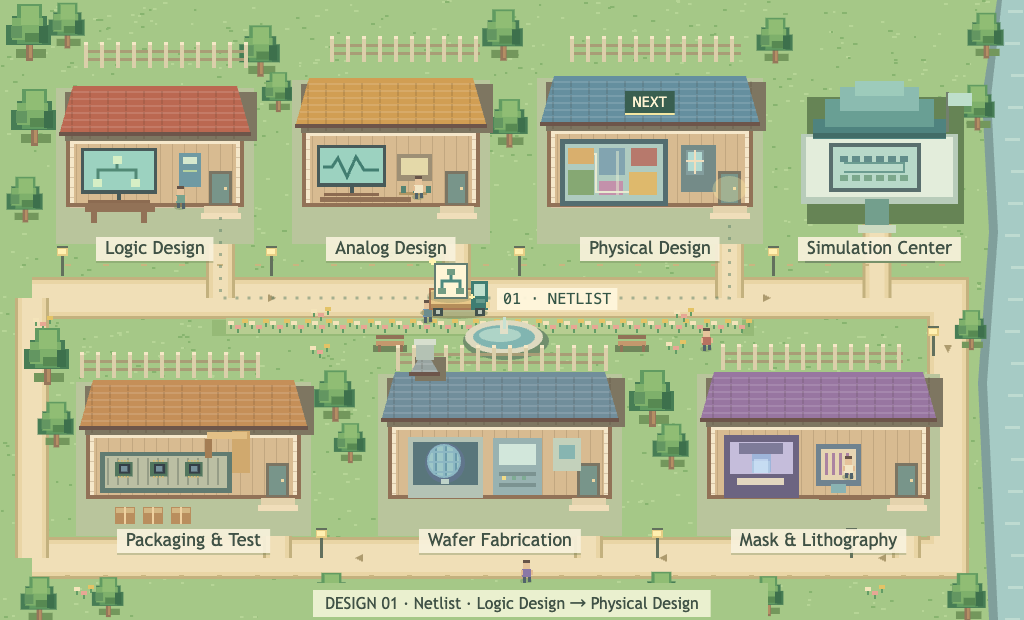
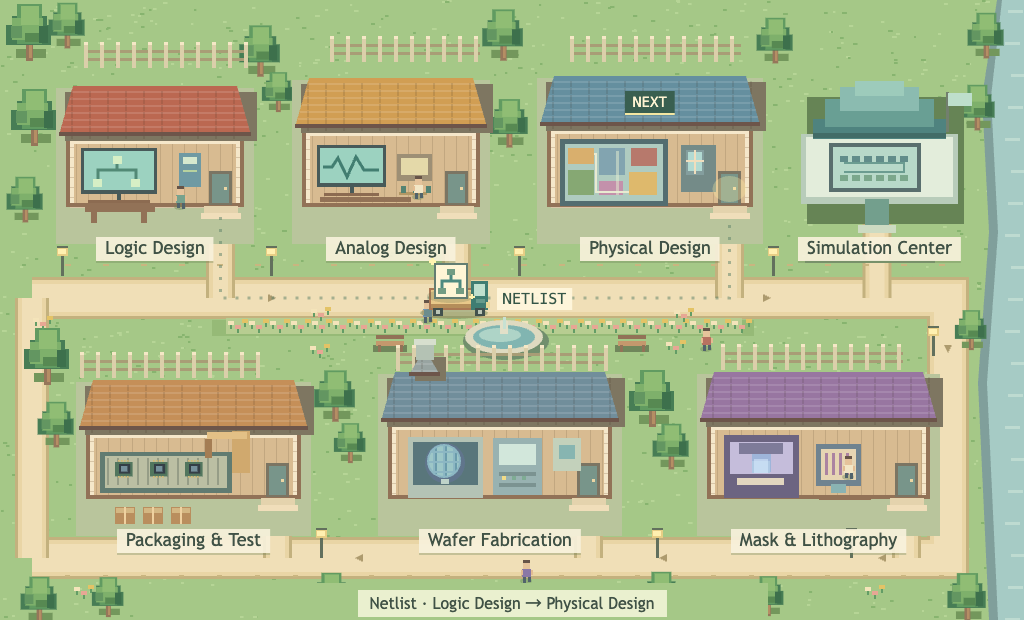
Remove design numbers from chip town cargo labels

Changed region(s): [[0.2812, 0.95, 0.7188, 1.0], [0.4688, 0.4597, 0.625, 0.521]]

diff --git a/assets/js/chip-town.js b/assets/js/chip-town.js
@@ -272,11 +272,11 @@
     ctx.save();
     if(state.type==='return')ctx.globalAlpha=Math.min(1,(1-p)*4);
     payload(ctx,state.cargo[0],state.cargo[1],state.kind,t);
-    const label=String(state.design).padStart(2,'0')+' · '+cargoNames[state.kind].toUpperCase();
+    const label=cargoNames[state.kind].toUpperCase();
     if(showLabels){ctx.font='500 15px monospace';ctx.textAlign='center';ctx.textBaseline='middle';const tw=ctx.measureText(label).width;
       let lx=state.cargo[0],ly=state.cargo[1]-45;
       if(state.type==='transfer' && state.cart[3]===0){
-        // Keep the shipment identifier on the road, away from the workshop nameplates.
+        // Keep the cargo label on the road, away from the workshop nameplates.
         lx=state.cart[0]+46+tw/2+6;ly=state.cart[1]+1;
         if(lx+tw/2+6>W-12)lx=state.cart[0]-32-tw/2-6;
       } else if(state.type==='transfer')ly=state.cargo[1]-57;
@@ -285,8 +285,8 @@
     }
     ctx.restore();
     if(exportLabels){r(ctx,258,583,510,37,C.grass);ctx.font='500 16px "Trebuchet MS", sans-serif';ctx.textAlign='center';ctx.textBaseline='middle';
-      let caption='DESIGN '+String(state.design).padStart(2,'0')+' · '+state.caption;
-      if(ctx.measureText(caption).width>690)caption='DESIGN '+String(state.design).padStart(2,'0')+' · '+cargoNames[state.kind]+' → '+byId(state.to||state.station).name;
+      let caption=state.caption;
+      if(ctx.measureText(caption).width>690)caption=cargoNames[state.kind]+' → '+byId(state.to||state.station).name;
       const tw=ctx.measureText(caption).width;r(ctx,512-tw/2-12,590,tw+24,27,'#eaf0cf');ctx.fillStyle=C.ink;ctx.fillText(caption,512,604);
     }
   }
